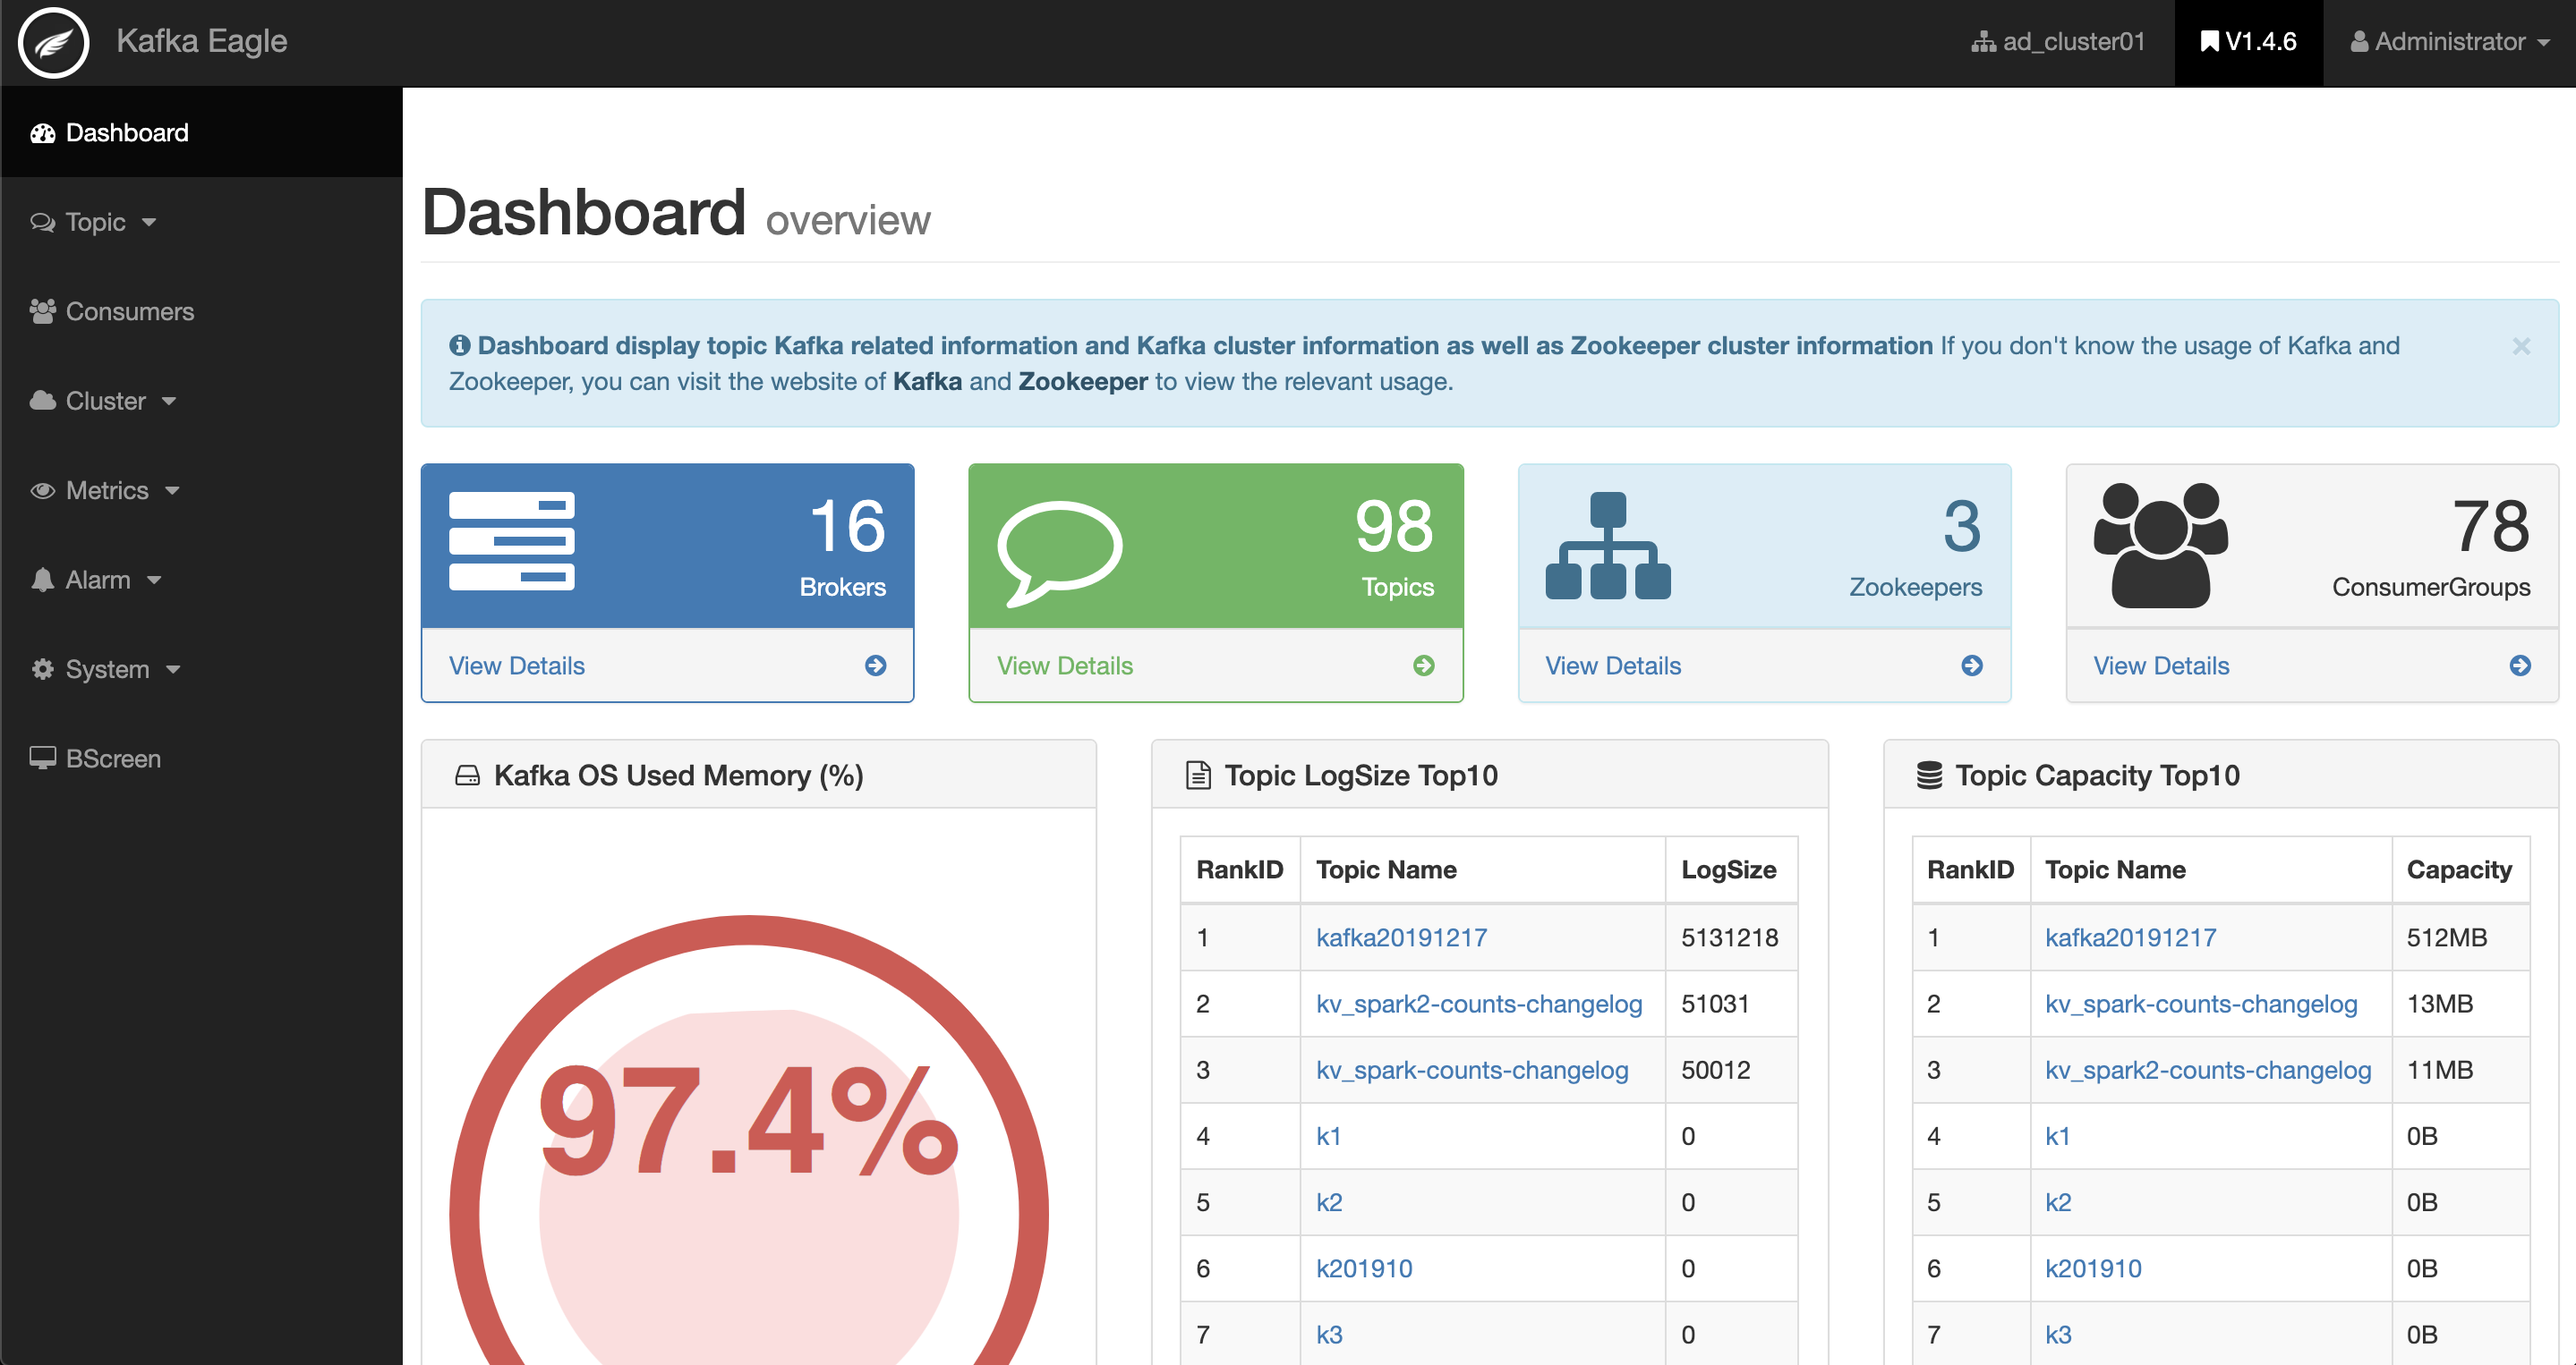
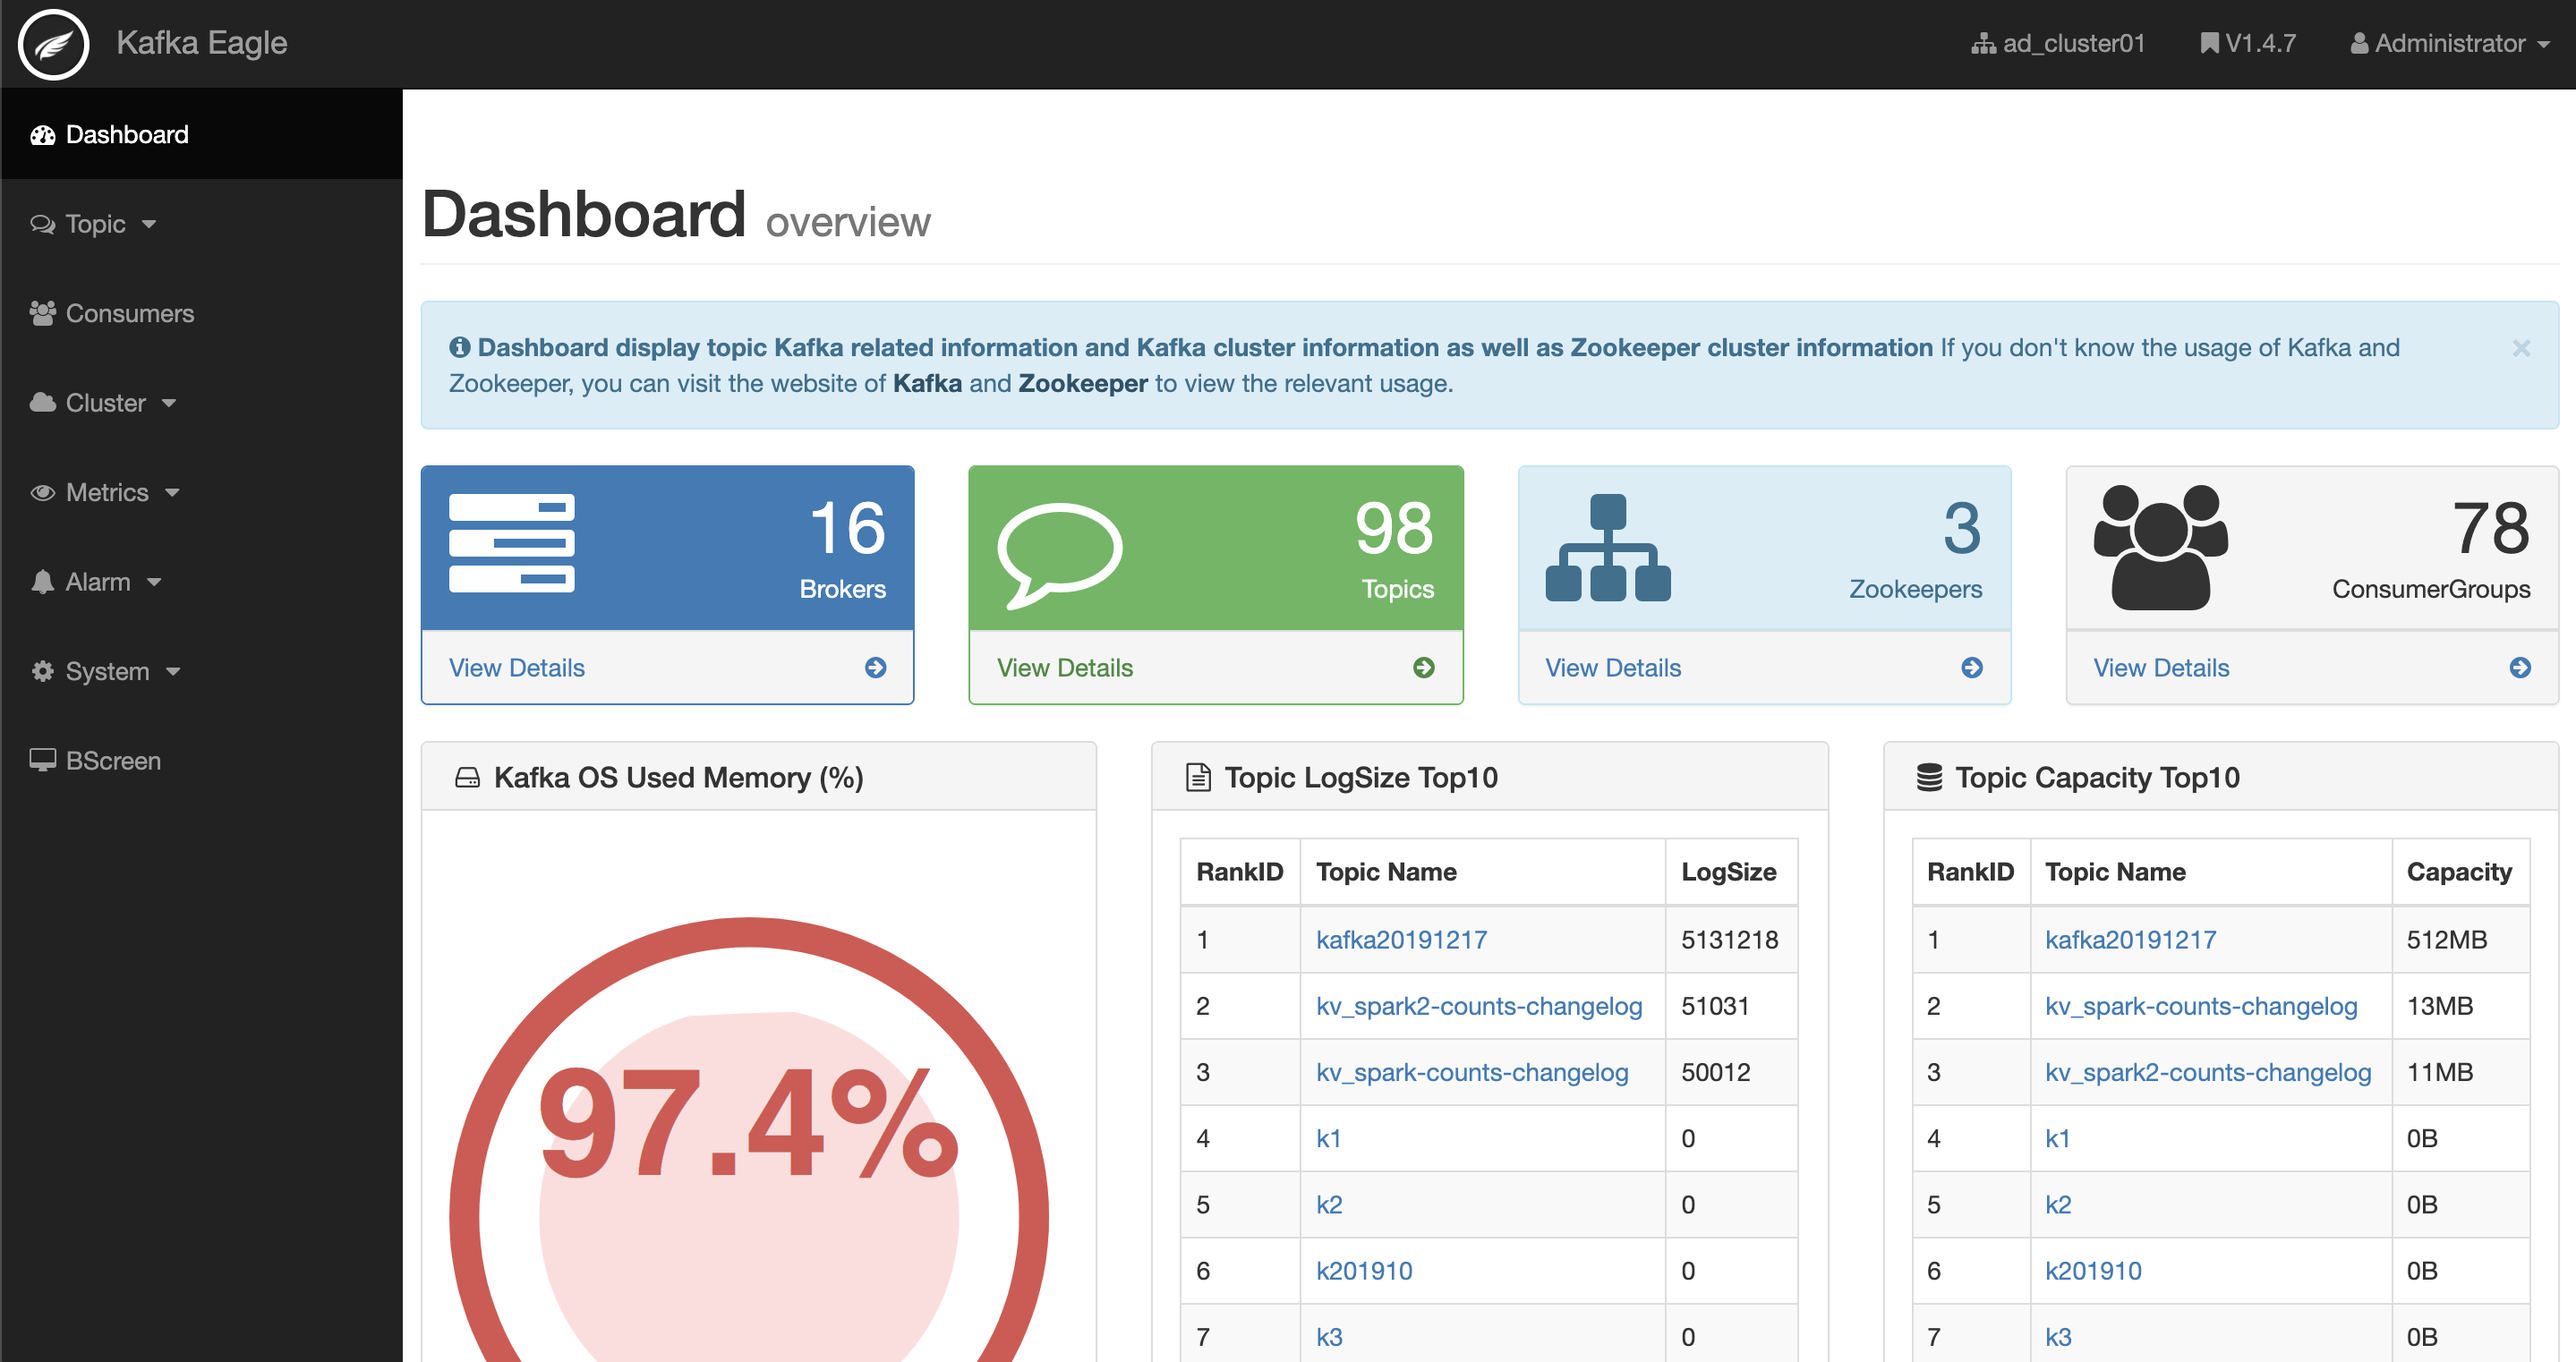
release v1.4.7

diff --git a/articles/docs/changelog/changelog.html b/articles/docs/changelog/changelog.html
@@ -87,6 +87,24 @@
         <h1>ChangeLog</h1>
         <div class="subHeader"><i class="fa fa-home"></i> > <a href="" style="text-decoration:none;">ChangeLog</a> >
           ChangeLog</div>
+        <h3>[Release V1.4.7] 2020-05-13</h3>
+          <p>[Release] Add：Release <a href="https://github.com/smartloli/kafka-eagle-bin/archive/v1.4.7.tar.gz"
+              style="text-decoration:none;" target="_blank">Kafka Eagle V1.4.7</a> version,The following changes:</p>
+          <ol>
+            <li>Add SSL.</li>
+            <li>Add Producers Feature.</li>
+            <li>Fix TopicRank Clean [<a href="https://github.com/smartloli/kafka-eagle/issues/333"
+                style="text-decoration:none;" target="_blank">#333</a>].</li>
+        </ol>    
+        <h3>[Release V1.4.6] 2020-04-12</h3>
+        <p>[Release] Add：Release <a href="https://github.com/smartloli/kafka-eagle-bin/archive/v1.4.6.tar.gz"
+            style="text-decoration:none;" target="_blank">Kafka Eagle V1.4.6</a> version,The following changes:</p>
+        <ol>
+          <li>Supported KSQL Like Query.</li>
+          <li>Add Topic Clean Data Feature.</li>
+          <li>Fix Consumer Group SlowQuery [<a href="https://github.com/smartloli/kafka-eagle/issues/311"
+              style="text-decoration:none;" target="_blank">#311</a>].</li>
+        </ol>  
         <h3>[Release V1.4.6] 2020-04-12</h3>
         <p>[Release] Add：Release <a href="https://github.com/smartloli/kafka-eagle-bin/archive/v1.4.6.tar.gz"
             style="text-decoration:none;" target="_blank">Kafka Eagle V1.4.6</a> version,The following changes:</p>

diff --git a/index.html b/index.html
@@ -38,7 +38,7 @@
           <div class="wrap">
             <div class="text"><strong>Kafka-<span class="white-text">Eagle</span></strong></div>
             <div class="minitext">A Easy and High-Performance Monitoring System</div>
-            <div class="buttons-unit"><a href="articles/docs/documentation.html" target="_blank" class="button">Installation guidelines</a><a href="http://download.kafka-eagle.org/" target="_blank" class="button">Download (v1.4.6)</a></div>
+            <div class="buttons-unit"><a href="articles/docs/documentation.html" target="_blank" class="button">Installation guidelines</a><a href="http://download.kafka-eagle.org/" target="_blank" class="button">Download (v1.4.7)</a></div>
             <div class="admin-screenshots">
               <div class="admin-screenshot">
                 <div class="browser-mockup"><a href="#" target="_blank" class="demo-link"><img src="images/Dashboard@2x.png"><span class="demo-link-label">Kafka Eagle</span></a></div>
